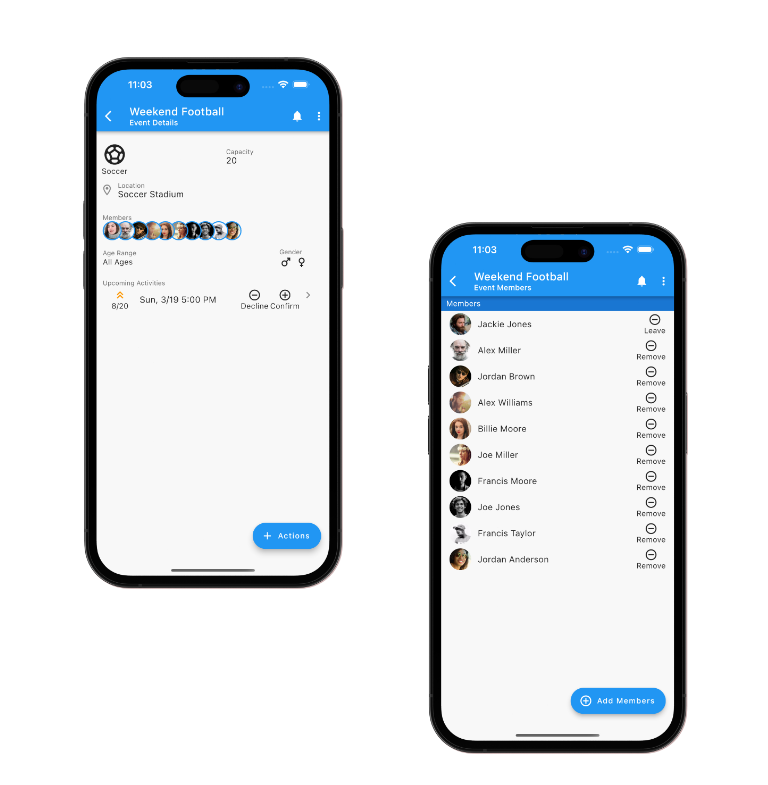
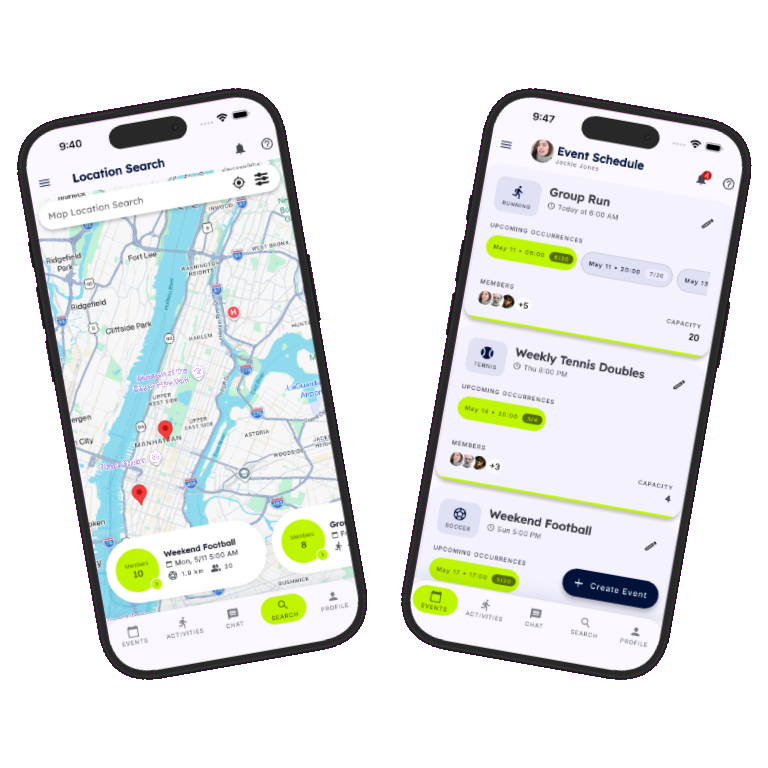
feat: replace coded UI mockups with real app screenshots
Swap all CSS-drawn phone mocks for actual app screenshots:
- Hero: events.png (two phones, transparent bg)
- Discovery feature card: search-results-people.png
- Venues section: venue-details.png (transparent bg)
- Download section: login.png (transparent bg)

diff --git a/index.html b/index.html
@@ -42,99 +42,7 @@ keywords: "sports,fitness,match,search,find,game,player,near me,local,team,atten
         </div>
       </div>
       <div class="hero__phones">
-        <div class="phone phone--back">
-          <div class="phone__screen phone__screen--search">
-            <div class="mock-status-bar"></div>
-            <div class="mock-screen-inner">
-              <div class="mock-search-bar">
-                <div class="mock-icon">⚽</div>
-                <span>Find athletes near you…</span>
-              </div>
-              <div class="mock-map"></div>
-              <div class="mock-result-card">
-                <div class="mock-avatar mock-avatar--a"></div>
-                <div class="mock-info">
-                  <div class="mock-name">Weekly Tennis Doubles</div>
-                  <div class="mock-meta">0.4 km · Mixed · All ages</div>
-                </div>
-                <div class="mock-pill">Join</div>
-              </div>
-              <div class="mock-result-card">
-                <div class="mock-avatar mock-avatar--b"></div>
-                <div class="mock-info">
-                  <div class="mock-name">5-a-side Football</div>
-                  <div class="mock-meta">1.2 km · Men · 18–35</div>
-                </div>
-                <div class="mock-pill mock-pill--full">Full</div>
-              </div>
-              <div class="mock-result-card">
-                <div class="mock-avatar mock-avatar--c"></div>
-                <div class="mock-info">
-                  <div class="mock-name">Morning Cycling Group</div>
-                  <div class="mock-meta">2.1 km · Mixed · All ages</div>
-                </div>
-                <div class="mock-pill">Join</div>
-              </div>
-            </div>
-          </div>
-        </div>
-        <div class="phone phone--front">
-          <div class="phone__screen">
-            <div class="mock-status-bar"></div>
-            <div class="mock-screen-inner">
-              <div class="mock-header">
-                <span>My Events</span>
-                <div class="mock-fab">+</div>
-              </div>
-              <div class="mock-tabs">
-                <div class="mock-tab mock-tab--active">Upcoming</div>
-                <div class="mock-tab">Managed</div>
-              </div>
-              <div class="mock-event-card">
-                <div class="mock-event-date">
-                  <div class="mock-day">WED</div>
-                  <div class="mock-num">14</div>
-                </div>
-                <div class="mock-event-info">
-                  <div class="mock-event-name">Badminton Club</div>
-                  <div class="mock-event-detail">7:00 PM · Confirmed ✓</div>
-                  <div class="mock-avatars">
-                    <div class="mock-av"></div><div class="mock-av"></div><div class="mock-av"></div>
-                    <span>+4</span>
-                  </div>
-                </div>
-              </div>
-              <div class="mock-event-card">
-                <div class="mock-event-date">
-                  <div class="mock-day">FRI</div>
-                  <div class="mock-num">16</div>
-                </div>
-                <div class="mock-event-info">
-                  <div class="mock-event-name">Park Run</div>
-                  <div class="mock-event-detail">8:00 AM · 3 spots left</div>
-                  <div class="mock-avatars">
-                    <div class="mock-av"></div><div class="mock-av"></div>
-                    <span>+8</span>
-                  </div>
-                </div>
-              </div>
-              <div class="mock-event-card mock-event-card--muted">
-                <div class="mock-event-date">
-                  <div class="mock-day">SAT</div>
-                  <div class="mock-num">17</div>
-                </div>
-                <div class="mock-event-info">
-                  <div class="mock-event-name">Sunday League</div>
-                  <div class="mock-event-detail">10:00 AM · Waitlisted</div>
-                  <div class="mock-avatars">
-                    <div class="mock-av"></div><div class="mock-av"></div><div class="mock-av"></div>
-                    <span>+12</span>
-                  </div>
-                </div>
-              </div>
-            </div>
-          </div>
-        </div>
+        <img src="images/events.png" alt="Sports HQ app screens" style="width:100%;max-width:560px;height:auto;display:block;">
       </div>
     </div>
     <div class="hero__scroll-hint">
@@ -188,23 +96,11 @@ keywords: "sports,fitness,match,search,find,game,player,near me,local,team,atten
               <li>Interactive map-based search</li>
               <li>Smart sport &amp; demographic filters</li>
               <li>Public &amp; private event listings</li>
+              <li>Notifications for new athletes and events that match your interests</li>
             </ul>
           </div>
           <div class="feature-card__visual">
-            <div class="visual-phone">
-              <div class="vp-bar"></div>
-              <div class="vp-map">
-                <div class="vp-pins">
-                  <div class="vp-pin vp-pin--1">⚽</div>
-                  <div class="vp-pin vp-pin--2">🎾</div>
-                  <div class="vp-pin vp-pin--3">🏀</div>
-                </div>
-                <div class="vp-card">
-                  <strong>5-a-side Football</strong>
-                  <span>0.8 km · 3 spots left</span>
-                </div>
-              </div>
-            </div>
+            <img src="images/search-results-people.png" alt="Search results screen" style="width:100%;max-width:260px;height:auto;display:block;border-radius:1.5rem;">
           </div>
         </div>
 
@@ -395,45 +291,7 @@ keywords: "sports,fitness,match,search,find,game,player,near me,local,team,atten
         <a href="#download" class="btn btn--navy btn--lg">Register Your Venue</a>
       </div>
       <div class="venues__visual">
-        <div class="venue-card">
-          <div class="vc-header">
-            <div class="vc-logo">🏟</div>
-            <div>
-              <div class="vc-name">Riverside Sports Centre</div>
-              <div class="vc-sub">Commercial · 4 sports</div>
-            </div>
-            <div class="vc-badge">Verified</div>
-          </div>
-          <div class="vc-sports">
-            <span>Tennis</span><span>Squash</span><span>Badminton</span><span>Swimming</span>
-          </div>
-          <div class="vc-stats">
-            <div class="vc-stat">
-              <div class="vc-stat-num">248</div>
-              <div class="vc-stat-label">Members</div>
-            </div>
-            <div class="vc-stat">
-              <div class="vc-stat-num">12</div>
-              <div class="vc-stat-label">Events/week</div>
-            </div>
-            <div class="vc-stat">
-              <div class="vc-stat-num">4.9★</div>
-              <div class="vc-stat-label">Rating</div>
-            </div>
-          </div>
-          <div class="vc-qr">
-            <div class="vc-qr-box">
-              <div class="qr-grid">
-                <div></div><div></div><div></div><div></div><div></div>
-                <div></div><div></div><div></div><div></div><div></div>
-                <div></div><div></div><div></div><div></div><div></div>
-                <div></div><div></div><div></div><div></div><div></div>
-                <div></div><div></div><div></div><div></div><div></div>
-              </div>
-            </div>
-            <span>Scan to register</span>
-          </div>
-        </div>
+        <img src="images/venue-details.png" alt="Venue details screen" style="width:100%;max-width:320px;height:auto;display:block;">
       </div>
     </div>
   </section>
@@ -491,18 +349,7 @@ keywords: "sports,fitness,match,search,find,game,player,near me,local,team,atten
         </div>
       </div>
       <div class="download__visual">
-        <div class="download-phone">
-          <div class="dp-screen">
-            <div class="dp-logo">
-              <div class="logo-mark logo-mark--lg">SQ</div>
-              <span>Sports<strong>HQ</strong></span>
-            </div>
-            <div class="dp-tagline">Find Your Game</div>
-            <div class="dp-sports-row">⚽ 🎾 🏀 🏸 🏃 🚴</div>
-            <div class="dp-btn">Get Started Free</div>
-            <div class="dp-signin">Already have an account? Sign in</div>
-          </div>
-        </div>
+        <img src="images/login.png" alt="Sports HQ login screen" style="width:100%;max-width:320px;height:auto;display:block;">
       </div>
     </div>
   </section>

diff --git a/_includes/footer.html b/_includes/footer.html
@@ -29,8 +29,8 @@
     </div>
     <div class="footer__col">
       <h5>Support</h5>
-      <a href="/howto.html">How Tos</a>
-      <a href="/faqs.html">FAQs</a>
+      <!-- <a href="/howto.html">How Tos</a>
+      <a href="/faqs.html">FAQs</a> -->
       <a href="mailto:support@sportshq.io">Contact Us</a>
       <a href="https://twitter.com/SportsHQ_io" target="_blank" rel="noopener">Twitter</a>
     </div>
